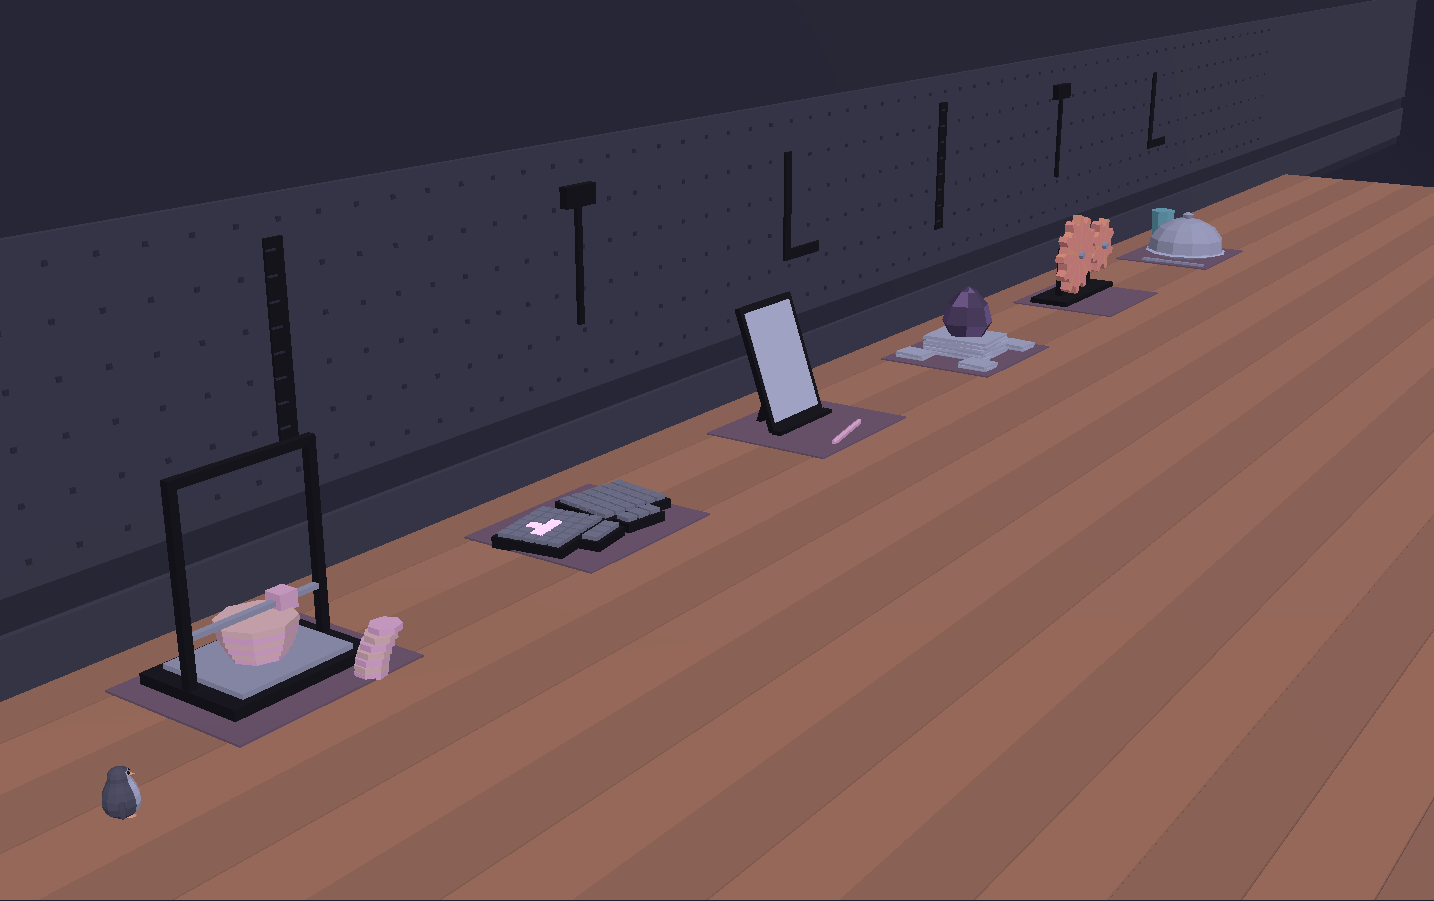
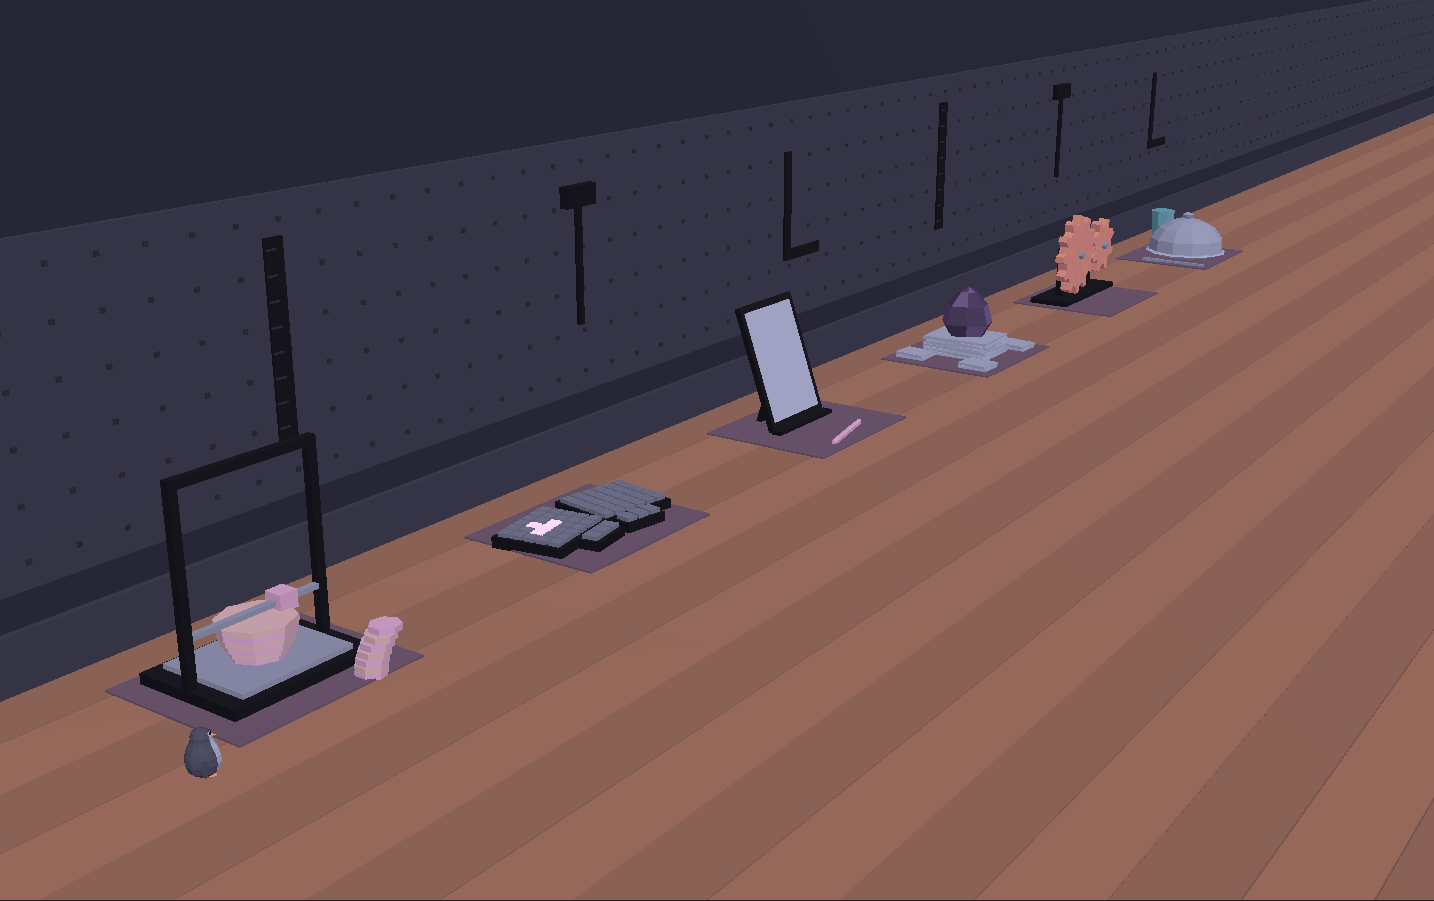
fix: Interessi overview framing, bench reaches past every shot (PORT-92)

Changed region(s): [[0.8898, 0.1243, 1.0, 0.2175], [0.0614, 0.8391, 0.1227, 0.9323], [0.1227, 0.808, 0.1534, 0.8701]]

diff --git a/src/scripts/three/interessi/bench.ts b/src/scripts/three/interessi/bench.ts
@@ -24,7 +24,7 @@ export const WALK_Z = 3.1;
 /** Il pinguino si ferma un po' prima dell'oggetto: lo guarda senza coprirlo. */
 const STOP_OFFSET = 3.6;
 /** Partenza e arrivo oltre il primo e l'ultimo oggetto. */
-const START_OFFSET = 9;
+const START_OFFSET = 6;
 const FINISH_OFFSET = 7.5;
 
 /** Centro dell'oggetto numero `index` lungo il banco. */
@@ -68,7 +68,7 @@ export function shotsFor(portrait: boolean): Record<string, Shot> {
   // Schermo stretto: strette e dall'alto, il piano del banco riempie anche il fondo. Il punto
   // guardato sta dietro l'oggetto: sotto il titolo e sopra la scheda, mai coperto.
   if (portrait) {
-    table.overview = { target: [-30, 5, 2], from: [-1, 0.55, 0.22], spanH: 40, spanW: 15 };
+    table.overview = { target: [-30, 6.4, 2], from: [-1, 0.55, 0.22], spanH: 40, spanW: 15 };
     interessiOrder.forEach((slug, i) => {
       const x = stationX(i) + (slug === 'food' ? 0.5 : -1);
       table[slug] = { target: [x, 1, -2.8], from: [-0.12, 1, 0.6], spanH: 12, spanW: 17 };

diff --git a/src/scripts/three/interessi/objects.ts b/src/scripts/three/interessi/objects.ts
@@ -59,7 +59,7 @@ export interface Bench {
 }
 
 /** Fianco del piano: largo ben oltre ogni inquadratura, cosi il bordo non si vede mai. */
-const REACH = 90;
+const REACH = 320;
 const BENCH_BACK = -7;
 const BENCH_FRONT = 50;
 const PLANK = 3;
@@ -122,7 +122,7 @@ function buildRoom(m: Mesher, p: BenchPalette): void {
   m.box(0, -1, WALL + 0.15, REACH * 3, 3.2, 0.3, p.wallLow);
   // Pannello forato dietro agli oggetti, con qualche attrezzo generico appeso.
   m.box(0, 3.6, WALL + 0.15, REACH * 3, 12, 0.3, p.wallLow);
-  for (let col = -40; col <= 40; col += 1) {
+  for (let col = -40; col <= 110; col += 1) {
     for (let row = 0; row < 6; row += 1) {
       m.box(col * 2, 4.5 + row * 2, WALL + 0.34, 0.2, 0.2, 0.08, p.wall);
     }

diff --git a/src/scripts/three/scenes/interessi.ts b/src/scripts/three/scenes/interessi.ts
@@ -77,7 +77,7 @@ export function mount({
 
   const scene = new Scene();
   // Near non troppo piccolo: la camera sta sempre oltre 10 unita, piu precisione di profondita.
-  const camera = new PerspectiveCamera(FOV, 1, 3, 240);
+  const camera = new PerspectiveCamera(FOV, 1, 3, 520);
 
   const owned: { dispose(): void }[] = [];
   const own = <T extends { dispose(): void }>(resource: T): T => {
